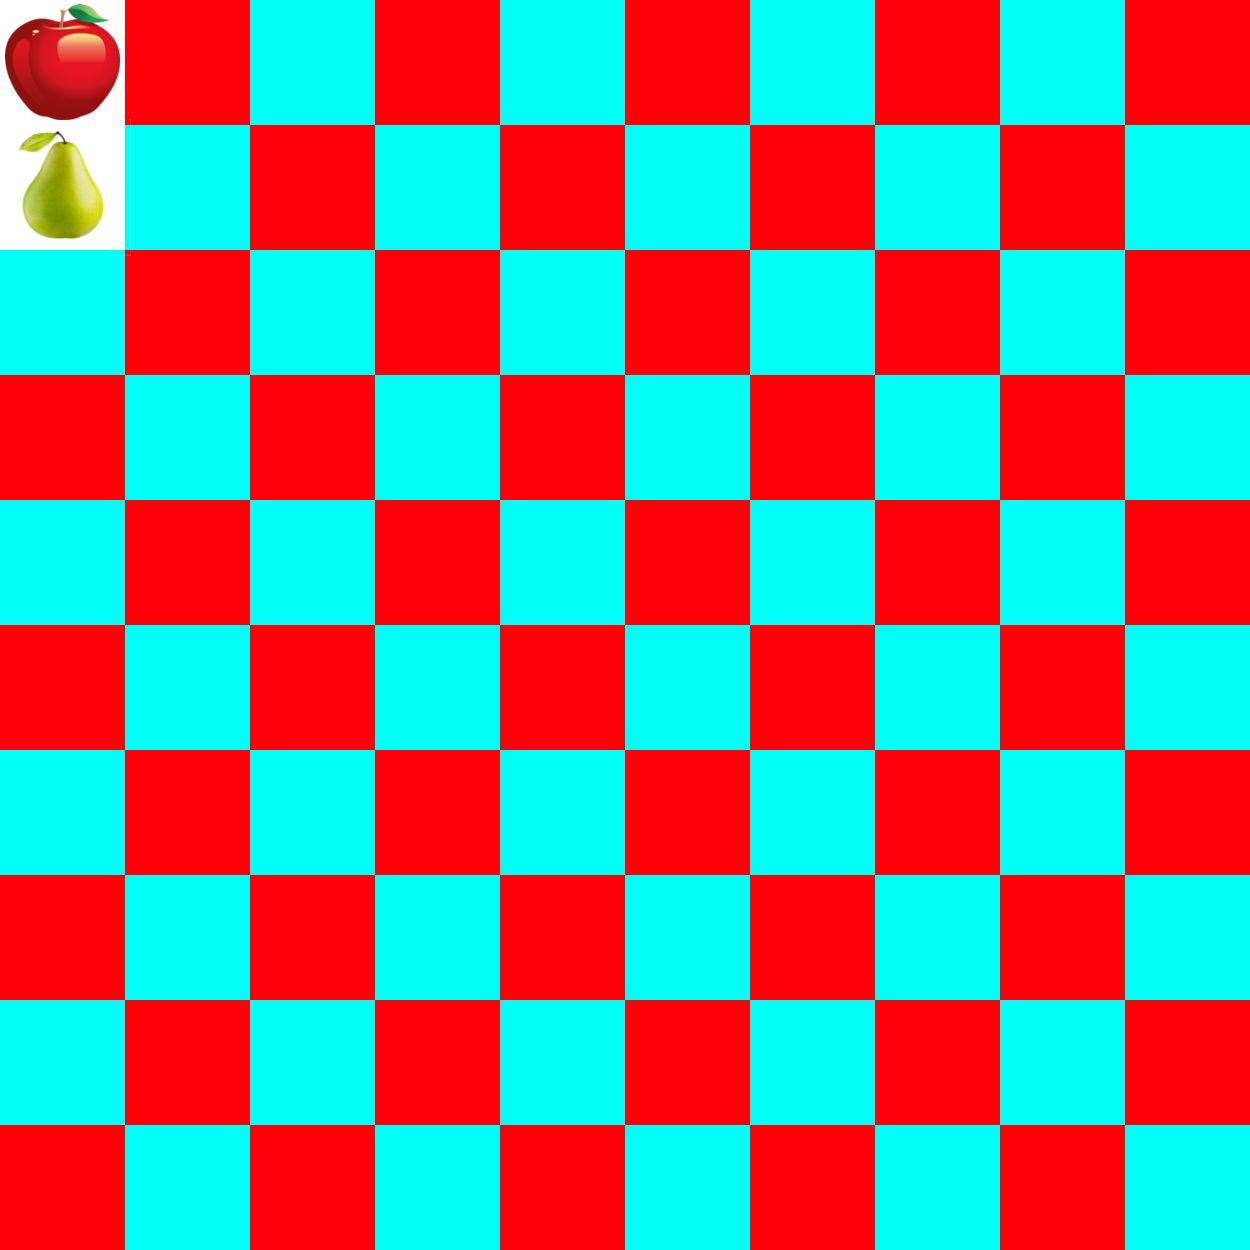
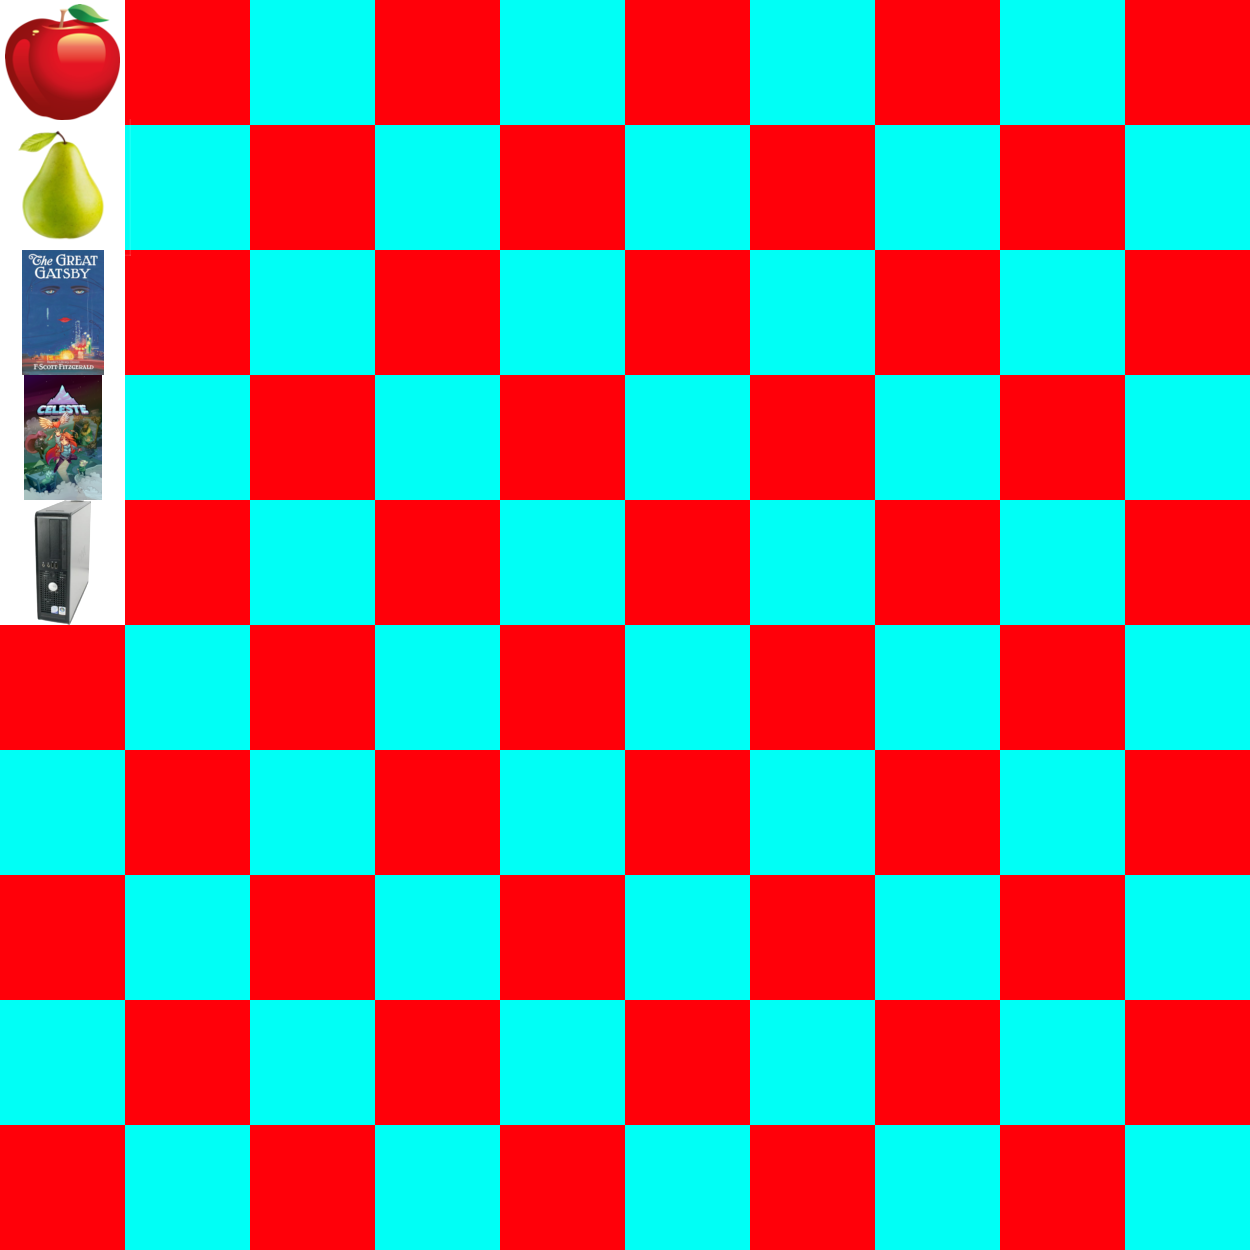
Added more item types

Changed region(s): [[0.0, 0.1872, 0.1248, 0.4992]]

diff --git a/src/items/VideoGameItem.java b/src/items/VideoGameItem.java
@@ -1,0 +1,80 @@
+package items;
+
+import javax.swing.*;
+
+public class VideoGameItem extends Item {
+
+    private String platform;
+    private String developer;
+    private String publisher;
+    private int year;
+    private float sizeGigabytes;
+    private String minimumCPU;
+    private String minimumGPU;
+    private float minimumRAMGigabytes;
+    private String releaseType;
+
+    public VideoGameItem(ImageIcon img, String name, float price, float weightKilograms,
+                         String platform, String developer, String publisher, int year, float sizeGigabytes, String minimumCPU, String minimumGPU, float minimumRAMGigabytes,
+                         String releaseType) {
+        super(img, name, price, weightKilograms);
+        this.platform = platform;
+        this.developer = developer;
+        this.publisher = publisher;
+        this.year = year;
+        this.sizeGigabytes = Math.max(0.f, sizeGigabytes);
+        this.minimumCPU = minimumCPU;
+        this.minimumGPU = minimumGPU;
+        this.minimumRAMGigabytes = Math.max(0.f, minimumRAMGigabytes);
+        this.releaseType = releaseType;
+
+        category = "Video Game";
+    }
+
+    @Override
+    public String getInformation() {
+        return String.format("Platform: %s\nDeveloper: %s\nPublisher: %s\nYear: %d\nSize: %s\nMinimum CPU: %s\nMinimum GPU: %s\nMinimum RAM: %s\nRelease Type: %s",
+                platform, developer, publisher, year,
+                (sizeGigabytes >= 1) ? String.format("%.2fGB", sizeGigabytes) : String.format("%.2fMB", sizeGigabytes * 1000),
+                minimumCPU, minimumGPU,
+                (minimumRAMGigabytes >= 1) ? String.format("%.2fGB", minimumRAMGigabytes) : String.format("%.2fMB", minimumRAMGigabytes * 1000),
+                releaseType);
+    }
+
+    public String getPlatform() {
+        return platform;
+    }
+
+    public String getDeveloper() {
+        return developer;
+    }
+
+    public String getPublisher() {
+        return publisher;
+    }
+
+    public int getYear() {
+        return year;
+    }
+
+    public float getSizeGigabytes() {
+        return sizeGigabytes;
+    }
+
+    public String getMinimumCPU() {
+        return minimumCPU;
+    }
+
+    public String getMinimumGPU() {
+        return minimumGPU;
+    }
+
+    public float getMinimumRAMGigabytes() {
+        return minimumRAMGigabytes;
+    }
+
+    public String getReleaseType() {
+        return releaseType;
+    }
+
+}

diff --git a/src/items/ComputerItem.java b/src/items/ComputerItem.java
@@ -1,0 +1,73 @@
+package items;
+
+import javax.swing.*;
+
+public class ComputerItem extends Item {
+
+    private String cpu;
+    private String gpu;
+    private float ramGigabytes;
+    private String ramType;
+    private float storageGigabytes;
+    private String storageType;
+    private String os;
+    private String manufacturer;
+
+    public ComputerItem(ImageIcon img, String name, float price, float weightKilograms,
+                        String cpu, String gpu, float ramGigabytes, String ramType, float storageGigabytes, String storageType, String os, String manufacturer) {
+        super(img, name, price, weightKilograms);
+        this.cpu = cpu;
+        this.gpu = gpu;
+        this.ramGigabytes = Math.max(0.f, ramGigabytes);
+        this.ramType = ramType;
+        this.storageGigabytes = Math.max(0.f, storageGigabytes);
+        this.storageType = storageType;
+        this.os = os;
+        this.manufacturer = manufacturer;
+
+        category = "Computer";
+    }
+
+    @Override
+    public String getInformation() {
+        return String.format("CPU: %s\nGPU: %s\nRAM: %s\nRAM Type: %s\nStorage: %s\nStorage Type: %s\nOS: %s\nManufacturer: %s",
+                cpu, gpu,
+                (ramGigabytes >= 1) ? String.format("%.2fGB", ramGigabytes) : String.format("%.2fMB", ramGigabytes * 1000),
+                ramType,
+                (storageGigabytes < 1000) ? String.format("%.2fGB", storageGigabytes) : String.format("%.2fTB", storageGigabytes / 1000),
+                storageType, os, manufacturer);
+    }
+
+    public String getCpu() {
+        return cpu;
+    }
+
+    public String getGpu() {
+        return gpu;
+    }
+
+    public float getRamGigabytes() {
+        return ramGigabytes;
+    }
+
+    public String getRamType() {
+        return ramType;
+    }
+
+    public float getStorageGigabytes() {
+        return storageGigabytes;
+    }
+
+    public String getStorageType() {
+        return storageType;
+    }
+
+    public String getOs() {
+        return os;
+    }
+
+    public String getManufacturer() {
+        return manufacturer;
+    }
+
+}

diff --git a/src/items/BookItem.java b/src/items/BookItem.java
@@ -1,0 +1,57 @@
+package items;
+
+import javax.swing.*;
+
+public class BookItem extends Item {
+
+    private String author;
+    private String genre;
+    private String type;
+    private int pages;
+    private int year;
+
+    public BookItem(ImageIcon img, String name, float price, float weightKilograms,
+                    String author, String genre, String type, int pages, int year) {
+        super(img, name, price, weightKilograms);
+        this.author = author;
+        this.genre = genre;
+        this.type = type;
+        this.pages = Math.max(0, pages);
+        this.year = year;
+
+        category = "Book";
+    }
+
+    @Override
+    public String getInformation() {
+        return String.format("Author: %s\nGenre: %s\nPages: %d\nLength: %s\nYear: %d\n%s",
+                author, genre, pages, getLength(), year, type);
+    }
+
+    public String getLength() {
+        return (pages <= 250) ? "Short" :
+               (pages <= 500) ? "Medium" :
+               (pages <= 1000) ? "Long" : "Very Long";
+    }
+
+    public String getAuthor() {
+        return author;
+    }
+
+    public String getGenre() {
+        return genre;
+    }
+
+    public String getType() {
+        return type;
+    }
+
+    public int getPages() {
+        return pages;
+    }
+
+    public int getYear() {
+        return year;
+    }
+
+}

diff --git a/src/frames/ShoppingFrame.java b/src/frames/ShoppingFrame.java
@@ -1,8 +1,7 @@
 package frames;
 
 import image.ImageSheet;
-import items.FoodItem;
-import items.Item;
+import items.*;
 
 import javax.swing.*;
 import java.awt.*;
@@ -22,6 +21,14 @@ public class ShoppingFrame extends JFrame {
                         2.f, 0.f, 0.f, 0.f, 0.f, 0.f, "1 Apple"),
                 new FoodItem(images.getIcons()[1], "Pear", 1.59f, 2.3f, 150,
                         2.f, 0.f, 0.f, 0.f, 0.f, 0.f, "1 Pear"),
+                new BookItem(images.getIcons()[2], "The Great Gatsby", 7.99f, 0.1899f,
+                        "F. Scott Fitzgerald", "Fiction", "Paperback", 162, 1925),
+                new VideoGameItem(images.getIcons()[3], "Celeste", 19.99f, 0.f,
+                        "Windows, Linux, Mac", "EXOK Games", "Maddy Makes Games Inc.", 2018, 1.2f, "Intel Core i3 M380",
+                        "OpenGL 3.0+ Compatible", 2.0f, "Digital"),
+                new ComputerItem(images.getIcons()[4], "Optiplex 760", 684.78f, 5.f,
+                        "Intel Core 2 Duo", "Intel HD Graphics", 4.f, "DDR2 Single Channel", 80.f, "Mechanical Hard Drive",
+                        "Microsoft Windows 7", "Dell")
         };
 
         JPanel itemPanel = new JPanel(new FlowLayout(FlowLayout.CENTER, 10, 10));

diff --git a/src/items/Item.java b/src/items/Item.java
@@ -46,7 +46,7 @@ public abstract class Item extends JPanel {
         gbc.gridy = 0;
 
         JLabel nameLabel = new JLabel(name);
-        nameLabel.setFont(new Font("Arial", Font.BOLD, 20));
+        nameLabel.setFont(new Font("Arial", Font.BOLD, 14));
         add(nameLabel, gbc);
 
         gbc.gridy = 1;
@@ -65,7 +65,7 @@ public abstract class Item extends JPanel {
 
         String weight = (weightKilograms >= 1) ?
                 String.format("%.2fkg", weightKilograms) : String.format("%.2fg", weightKilograms * 1000);
-        JLabel weightLabel = new JLabel(weight);
+        JLabel weightLabel = new JLabel((weightKilograms != 0) ? weight : "N/A");
         infoPanel.add(weightLabel, BorderLayout.EAST);
 
         gbc.gridy = 2;
@@ -105,6 +105,8 @@ public abstract class Item extends JPanel {
         addButton.addActionListener(listener);
         subtractButton.addActionListener(listener);
     }
+
+    public abstract String getInformation();
 
     public void modifyItemCount(byte amount) {
         itemCount += amount;

diff --git a/src/items/FoodItem.java b/src/items/FoodItem.java
@@ -28,7 +28,8 @@ public class FoodItem extends Item {
         category = "Food";
     }
 
-    public String getNutritionLabel() {
+    @Override
+    public String getInformation() {
         StringBuilder label = new StringBuilder();
 
         label.append(String.format("Serving size: %s\nCalories: %d", servingSize, calories));
